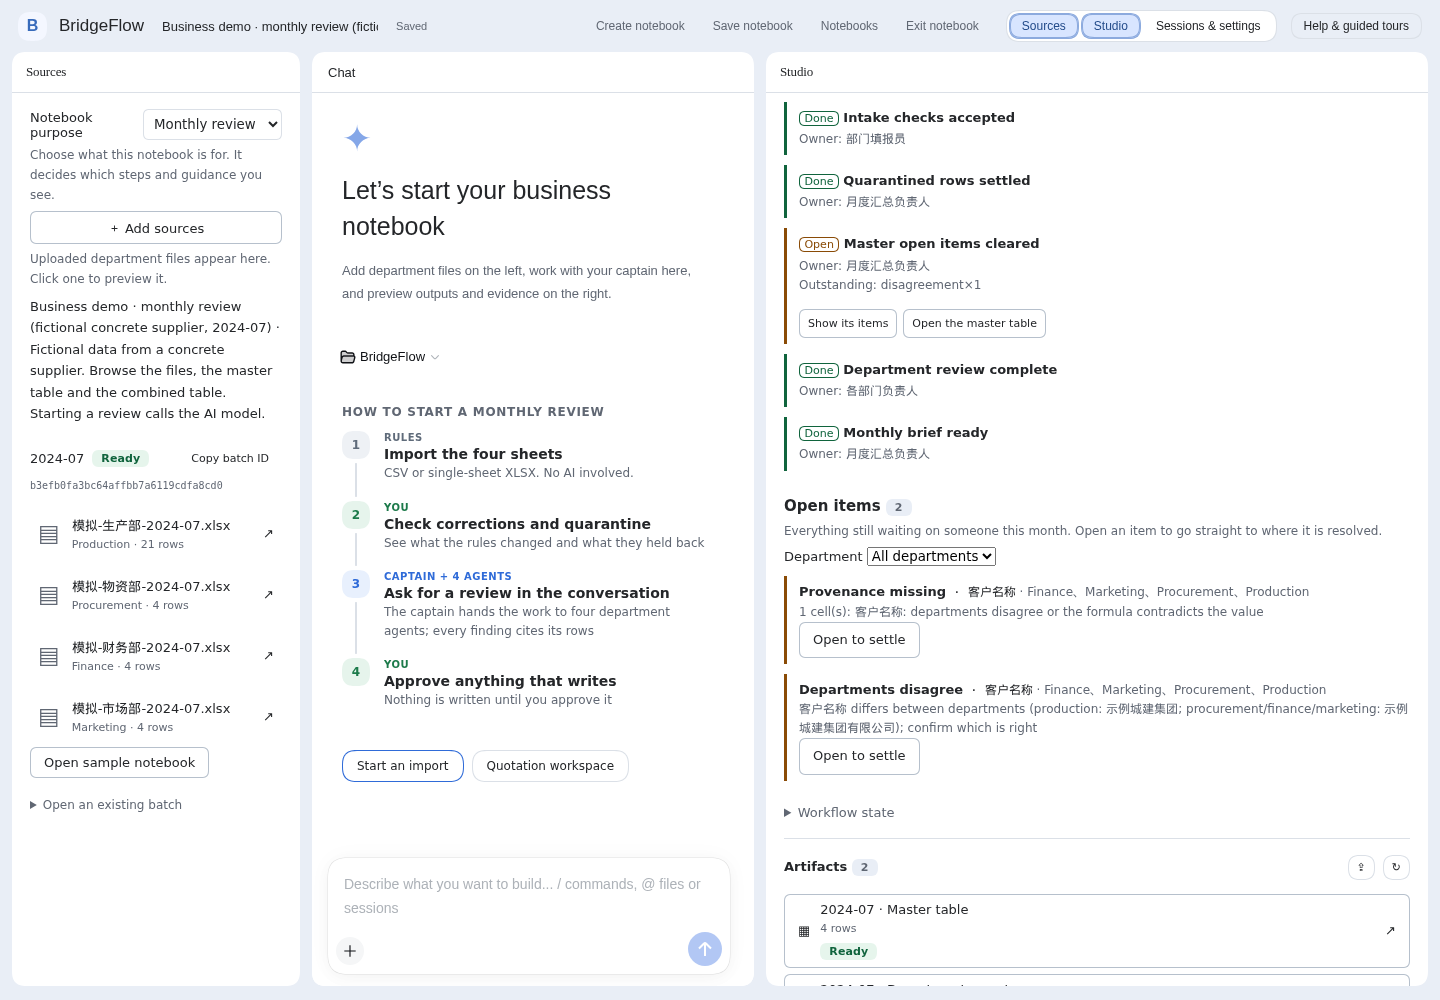
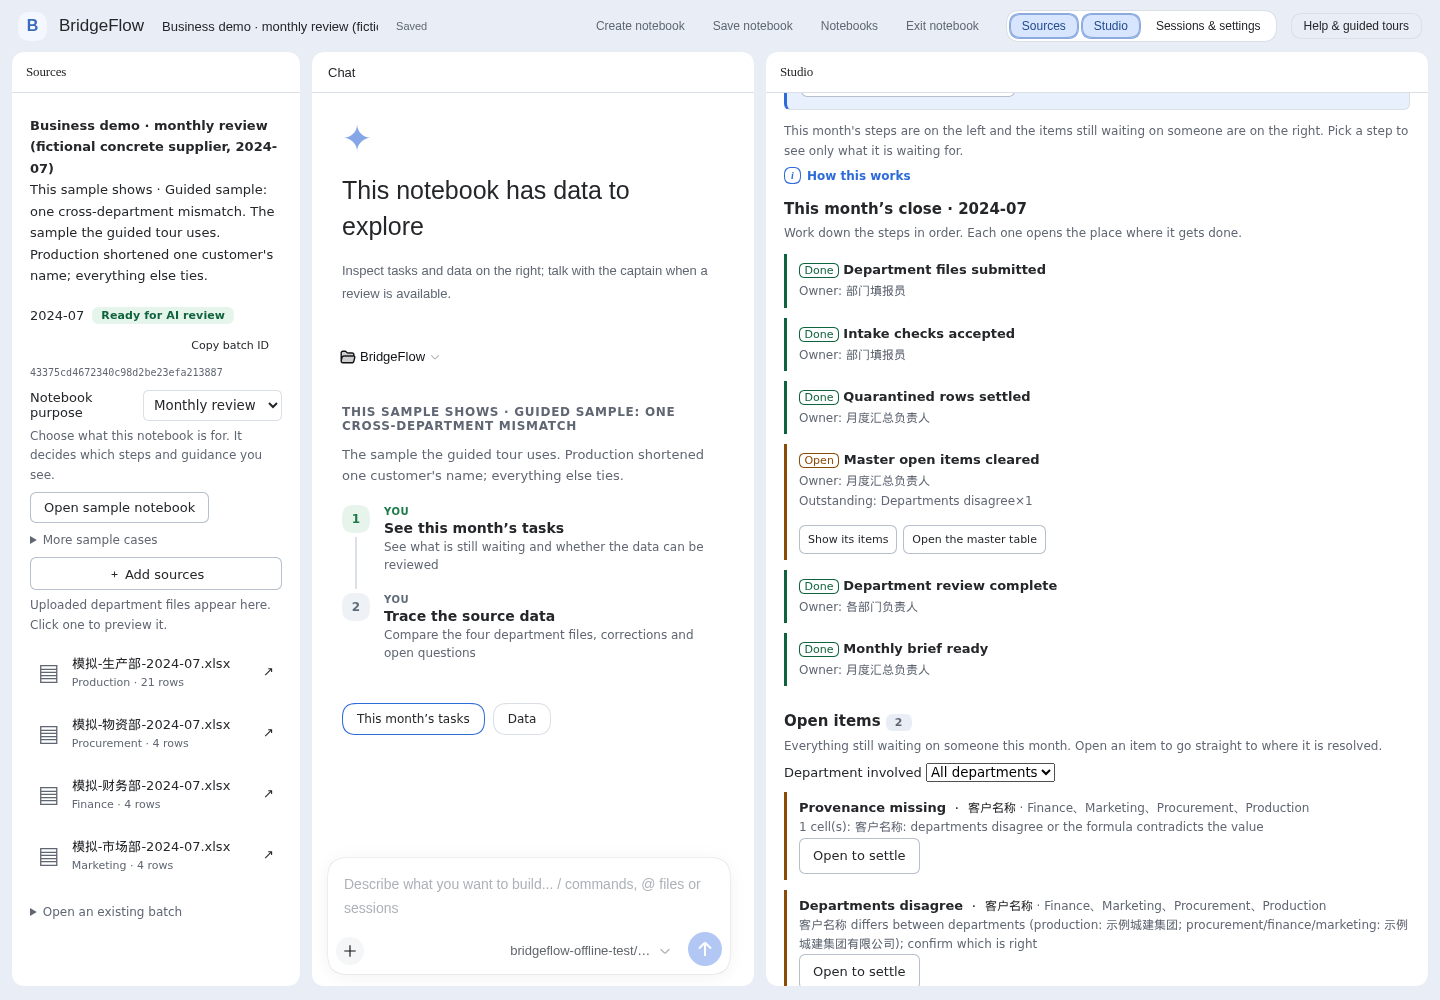
Align open-item filters with their actual sources

diff --git a/plugins/src/client/checklist.tsx b/plugins/src/client/checklist.tsx
@@ -23,8 +23,8 @@ type Inbox = { total: number; items: Item[]; by_kind: Record<string, number>; by
  * Every row ends in one button: open the module that settles it. There is deliberately no
  * approve or reject here — the evidence and the approval live where the item came from.
  */
-export function OpenItemInbox({ period, batchId, focusView = '', onClearFocus }:
-  { period: string; batchId: string; focusView?: string; onClearFocus?: () => void }) {
+export function OpenItemInbox({ period, batchId, focusSource = '', onClearFocus }:
+  { period: string; batchId: string; focusSource?: string; onClearFocus?: () => void }) {
   const { t, colon } = useUI()
   const [inbox, setInbox] = useState<Inbox | null>(null), [error, setError] = useState(''), [department, setDepartment] = useState('')
   useEffect(() => {
@@ -39,15 +39,17 @@ export function OpenItemInbox({ period, batchId, focusView = '', onClearFocus }:
   if (!period) return null
   if (error) return <p role="alert" className="bf-error">{error}</p>
   if (!inbox) return <p role="status" className="bf-loading">{t('loading')}</p>
-  // A step in the checklist and the items behind it are the same facts read twice; focusing
-  // a step narrows this list instead of showing the person a second, separate count.
-  const shown = focusView ? inbox.items.filter(item => item.next_view === focusView) : inbox.items
+  // Only steps backed by an inbox source offer a focus action. A shared destination such as
+  // "state" can cover unrelated facts and is not a safe filter key.
+  const shown = focusSource ? inbox.items.filter(item => item.source === focusSource) : inbox.items
+  const filtered = Boolean(focusSource || department)
   return <section className="bf-inbox" aria-label={t('openItems')}>
-    <h3>{t('openItems')} <span className="bf-badge">{inbox.total}</span></h3>
-    {focusView
+    <h3>{t('openItems')} <span className="bf-badge">{shown.length}</span></h3>
+    {filtered && <p className="bf-hint" role="status">{t('inboxShowingOf').replace('{shown}', String(shown.length)).replace('{total}', String(inbox.total))}</p>}
+    {focusSource
       ? <p className="bf-hint" role="status">{t('inboxFocused')} <button onClick={() => onClearFocus?.()}>{t('inboxClearFocus')}</button></p>
       : <p className="bf-hint">{t('openItemsHint')}</p>}
-    <label>{t('department')} <select value={department} onChange={e => setDepartment(e.target.value)}>
+    <label>{t('inboxDepartmentFilter')} <select value={department} onChange={e => setDepartment(e.target.value)}>
       <option value="">{t('allDepartments')}</option>
       {Object.keys(inbox.by_department).map(name => <option key={name} value={name}>{t(name)} · {inbox.by_department[name]}</option>)}
     </select></label>
@@ -63,8 +65,8 @@ export function OpenItemInbox({ period, batchId, focusView = '', onClearFocus }:
   </section>
 }
 
-export function CloseChecklist({ period, batchId, onImport, onFocus, focusView = '' }:
-  { period: string; batchId: string; onImport: () => void; onFocus?: (nextView: string) => void; focusView?: string }) {
+export function CloseChecklist({ period, batchId, onImport, onFocus, focusSource = '' }:
+  { period: string; batchId: string; onImport: () => void; onFocus?: (source: string) => void; focusSource?: string }) {
   const { t, colon, list: joined } = useUI()
   const [list, setList] = useState<Checklist | null>(null), [error, setError] = useState('')
   useEffect(() => {
@@ -79,12 +81,13 @@ export function CloseChecklist({ period, batchId, onImport, onFocus, focusView =
   if (error) return <p role="alert" className="bf-error">{error}</p>
   if (!list) return <p role="status" className="bf-loading">{t('loading')}</p>
   if (list.refusal) return <p className="bf-hint">{list.refusal}</p>
+  const inboxSource = (kind: string) => kind === 'quarantine_cleared' ? 'quarantine' : kind === 'master_open_items' ? 'integration' : ''
   return <section className="bf-checklist" aria-label={t('closeChecklist')}>
     <h3>{t('closeChecklist')} · {list.period}</h3>
     {list.ready_to_close
       ? <div className="bf-callout" data-tone="ok"><h3>{t('readyToClose')}</h3><p>{t('readyToCloseHint')}</p></div>
       : <p className="bf-hint">{t('checklistHint')}</p>}
-    <ol>{list.steps.map(step => <li key={step.id} data-state={step.state} data-focused={step.next_view === focusView}>
+    <ol>{list.steps.map(step => <li key={step.id} data-state={step.state} data-focused={!!inboxSource(step.kind) && inboxSource(step.kind) === focusSource}>
       <span className="bf-step-state" data-state={step.state}>{t(`stepState_${step.state}`)}</span>
       <b>{t(`step_${step.id}`)}</b>
       {step.owner_role && <span className="bf-hint bf-step-owner">{t('stepOwner')}{colon}{step.owner_role}</span>}
@@ -92,7 +95,7 @@ export function CloseChecklist({ period, batchId, onImport, onFocus, focusView =
         {step.outstanding.length > 0 && <div className="bf-hint">{t('stepOutstanding')}{colon}{joined(step.outstanding.map((name: string) => name.replace(/^([a-z_]+)(×\d+)?$/, (whole, kind: string, count = '') => t(`issue_${kind}`) === `issue_${kind}` ? whole : `${t(`issue_${kind}`)}${count}`)))}</div>}
         {step.reason && <div className="bf-hint">{step.reason}</div>}
         <div className="bf-actions" style={{ marginBottom: 0 }}>
-          {step.count > 0 && onFocus && <button onClick={() => onFocus(step.next_view)}>{t('stepShowItems')}</button>}
+          {step.count > 0 && inboxSource(step.kind) && onFocus && <button onClick={() => onFocus(inboxSource(step.kind))}>{t('stepShowItems')}</button>}
           {step.next_view && <button onClick={() => {
             if (step.next_view === 'import') onImport()
             else navigate({ ...(batchId ? { batch: batchId } : {}), view: step.next_view })

diff --git a/plugins/src/client/tasks.tsx b/plugins/src/client/tasks.tsx
@@ -40,7 +40,7 @@ export function TasksView({ batchId, summary, audit, savedReportStatus, notebook
 }) {
   const { t } = useUI()
   const guest = useGuestMode()
-  const [focus, setFocus] = useState('')
+  const [focusSource, setFocusSource] = useState('')
   const [busy, setBusy] = useState(false), [error, setError] = useState(''), [requestSent, setRequestSent] = useState(false)
   if (!summary) return <p className="bf-hint">{t('studioStartHelp')}</p>
   const reviewReady = summary.status === 'ready'
@@ -70,8 +70,8 @@ export function TasksView({ batchId, summary, audit, savedReportStatus, notebook
 
     <div className="bf-tasks-split">
       <CloseChecklist period={summary.period} batchId={batchId} onImport={onImport}
-        onFocus={view => setFocus(current => current === view ? '' : view)} focusView={focus} />
-      <OpenItemInbox period={summary.period} batchId={batchId} focusView={focus} onClearFocus={() => setFocus('')} />
+        onFocus={source => setFocusSource(current => current === source ? '' : source)} focusSource={focusSource} />
+      <OpenItemInbox period={summary.period} batchId={batchId} focusSource={focusSource} onClearFocus={() => setFocusSource('')} />
     </div>
 
     <details className="bf-tasks-workflow">

diff --git a/plugins/src/client/ui.ts b/plugins/src/client/ui.ts
@@ -307,6 +307,8 @@ const labels = {
   upload: ['上传', 'Upload'],
   workflowProgress: ['工作流状态', 'Workflow state'],
   inboxFocused: ['只显示所选步骤在等的事项。', 'Showing only the items the focused step is waiting on.'],
+  inboxShowingOf: ['当前显示 {shown} / 全部 {total} 条待确认事项。', 'Showing {shown} of {total} open items.'],
+  inboxDepartmentFilter: ['涉及部门', 'Department involved'],
   inboxClearFocus: ['显示全部', 'Show all'],
   stepShowItems: ['只看这几条', 'Show its items'],
   briefSources: ['这个数字的出处', 'Where this figure came from'],

diff --git a/HANDOFF.md b/HANDOFF.md
@@ -6,6 +6,7 @@
 
 ## 2026-09-24 交付前逐项打磨：评委看三本样例
 
+- **待办筛选的数字与来源**：本月任务按部门筛选后，列表只剩几项，标题却仍显示全批次总数；现在显示当前条数及「显示 X / 全部 Y」，筛选标签改为「涉及部门」，说明共享事项也会被选中。清单中「自检通过 → 只看这几条」原来会筛出空列表，因为这一步没有待办来源；现在只给隔离行、总表问题这两个有对应来源的步骤提供该按钮，按来源而不是共用的目标页面筛选。三案例浏览器旅程检查财务 3/15、隔离行与总表聚焦、无来源步骤不出现按钮；[筛选截图](docs/evidence/demo-cases/case-core-filtered-inbox.png)留证。月结/结论旅程原来拿真实上传的 6 月给合成样例作基期，违背当前隔离规则；测试改导入样例自己的 5、6 月后通过。
 - **数据质量不能把未知报成零**：数据页过去在待办接口加载中或失败时，把四类质量计数全显示为 `0`；现在先显示破折号，失败时明确说“未知不是零”并可刷新重试。三案例浏览器旅程用延迟再返回 503 复现，检查未知状态、失败状态及重试后真实零值；[局部截图](docs/evidence/demo-cases/data-quality-unavailable.png)留证。中英文 README 的总表入口改成当前的「数据 → 本批次的数据质量 → 跨部门总表」，中文导览说明补上现有的立项到交接线路，并把样例状态写成「可发起研判」。构建、类型检查、插件 100 条、三案例及 README 截图旅程通过；14:28 的旧批次未重跑。
 - **总览第二处记录入口与评委说明**：空笔记本「每次运行的 token → 记录」仍误跳到「填报与流转」；现在和「最近的代理运行」一样直达记录页，浏览器回归覆盖两个入口。空笔记本总览改为说明数字属于整个工作区，避免把它们说成某个月的进展。中英文 README 同步纠正已撤下的“按部门过滤批次”说法，并写明公网 guest 尚未开放，避免无飞书账号的评委走进死路。构建、类型检查和三案例旅程通过；没有重跑 14:28 旧批次。
 - **空笔记本的运行记录入口与批次状态**：总览的「最近的代理运行」原先在没有月度批次时误跳到「填报与流转」，记录页入口也被禁用。现在无批次也能打开只读记录页看工作区运行、决策日志和验收检查；载入样例后仍显示该批次的版本链与处置记录。批次 `ready` 统一写成「可发起研判 / Ready for AI review」，避免与「已可交付」混淆。空白与已载入样例的浏览器旅程、离线业务走查、插件 100 条测试及类型检查通过；截图已更新。
